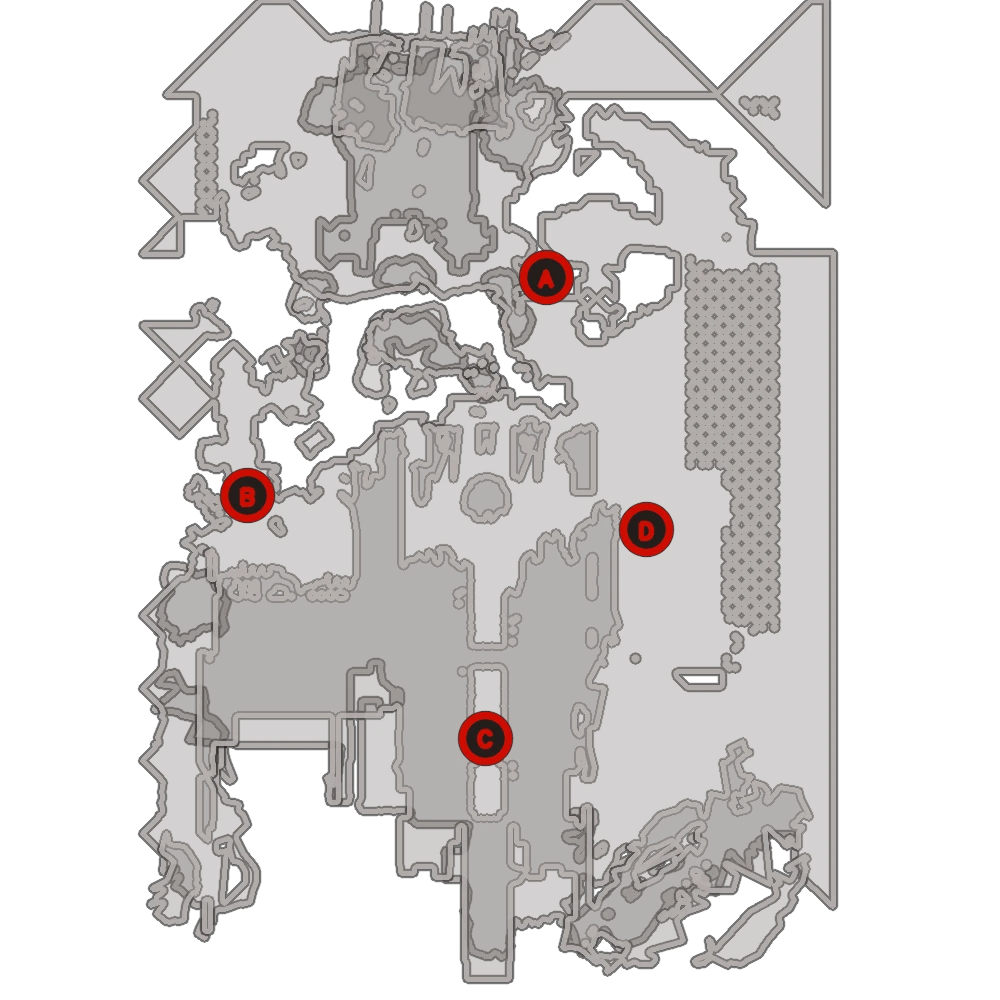
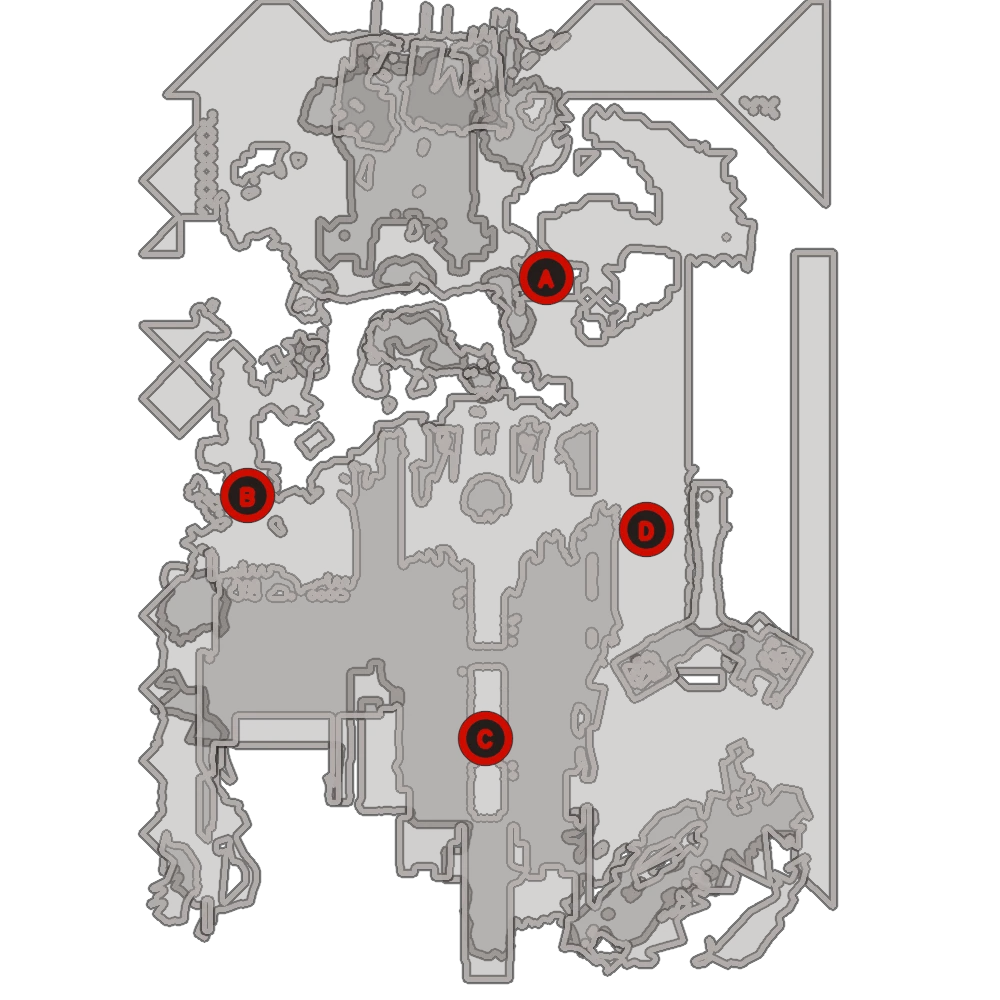
Restore Larzac spawn building minimap

Changed region(s): [[0.589, 0.248, 0.806, 0.713]]

diff --git a/analyzer/index.html b/analyzer/index.html
@@ -156,7 +156,7 @@
   </div>
 
   <script src="./html2canvas.min.js"></script>
-  <script src="./minimaps/catalog-20260822-3.js"></script>
+  <script src="./minimaps/catalog-20260822-4.js"></script>
   <script src="./parser.js?v=20260820-67"></script>
   <script src="./tier-data.js?v=20260816-2"></script>
   <script src="./spawn-alignment.js?v=20260820-1"></script>

diff --git a/analyzer/tools/build_game_minimaps.py b/analyzer/tools/build_game_minimaps.py
@@ -18,7 +18,7 @@ import cv2
 import numpy as np
 
 
-IMMUTABLE_CATALOG_FILENAME = "catalog-20260822-3.js"
+IMMUTABLE_CATALOG_FILENAME = "catalog-20260822-4.js"
 
 
 GROUP_NODES = {
@@ -323,6 +323,18 @@ PROCEDURAL_SPAWN_EXTRA_GROUPS = {
 CORPUS_SHIP_MIN_CONNECTED_AREA = 1000
 HYDRON_DEFENSE_GROUP = "hydron+helene+odin"
 HYF_DEFENSE_GROUP = "hyf"
+ICE_PLANET_DEFENSE_GROUP = "ose+paimon+larzac"
+# Larzac's right-side spawn chain belongs to a real Y-shaped building whose
+# walkable top sits around 8.5 m even though its authored spawn markers sit at
+# 4.75 m. The generic +/-3 m middle band therefore misses the floor while
+# admitting the lower framework below it. Recover only the source-mesh
+# component around this reviewed anchor, and exclude the framework volume from
+# the broad middle-band projection instead of drawing replacement geometry.
+LARZAC_Y_BUILDING_HEIGHT = 8.5
+LARZAC_Y_BUILDING_HEIGHT_TOLERANCE = 0.55
+LARZAC_Y_BUILDING_ANCHOR = ((-46.7, 8.5, -50.0),)
+LARZAC_FRAMEWORK_MIN = np.asarray([-64.0, 1.5, -65.0], dtype=np.float32)
+LARZAC_FRAMEWORK_MAX = np.asarray([-42.0, 7.8, 18.0], dtype=np.float32)
 # Hyf's ramps make its authored spawn heights nearly continuous, so generic
 # height clustering collapses its playable decks into a single -6 m slice.
 # Composite the four real floor planes and stop below the roof band near +5 m.
@@ -685,6 +697,8 @@ def render_map(
             ) * 0.5
     elif group_id == HYF_DEFENSE_GROUP:
         heights = list(HYF_PLAYABLE_FLOOR_HEIGHTS)
+    elif group_id == ICE_PLANET_DEFENSE_GROUP:
+        heights = sorted([*heights, LARZAC_Y_BUILDING_HEIGHT])
     elif group_id in CORPUS_OUTPOST_HEIGHT_BAND_INDICES:
         heights = [
             heights[index]
@@ -725,21 +739,29 @@ def render_map(
                 group_id, ()
             )
         )
+        larzac_y_building_band = (
+            group_id == ICE_PLANET_DEFENSE_GROUP
+            and abs(height - LARZAC_Y_BUILDING_HEIGHT) < 0.01
+        )
         gas_spawn_02_side_height = (
             gas_spawn_02_side_heights[band_index]
             if gas_spawn_02_side_heights is not None
             else None
         )
         height_tolerance = (
-            CORPUS_OUTPOST_COMPONENT_ONLY_TOLERANCE
-            if component_only_band
+            LARZAC_Y_BUILDING_HEIGHT_TOLERANCE
+            if larzac_y_building_band
             else (
-                CORPUS_OUTPOST_ADDITIONAL_HEIGHT_TOLERANCE
-                if additional_height_band
+                CORPUS_OUTPOST_COMPONENT_ONLY_TOLERANCE
+                if component_only_band
                 else (
-                    HYF_ADDITIONAL_FLOOR_TOLERANCE
-                    if group_id == HYF_DEFENSE_GROUP and band_index > 0
-                    else 3.0
+                    CORPUS_OUTPOST_ADDITIONAL_HEIGHT_TOLERANCE
+                    if additional_height_band
+                    else (
+                        HYF_ADDITIONAL_FLOOR_TOLERANCE
+                        if group_id == HYF_DEFENSE_GROUP and band_index > 0
+                        else 3.0
+                    )
                 )
             )
         )
@@ -794,6 +816,16 @@ def render_map(
                     & (centroids[:, 2] >= lo[1])
                     & (centroids[:, 2] <= hi[1])
                 )
+                if (
+                    group_id == ICE_PLANET_DEFENSE_GROUP
+                    and abs(height - 4.75) < 0.01
+                ):
+                    framework = np.all(
+                        (centroids >= LARZAC_FRAMEWORK_MIN)
+                        & (centroids <= LARZAC_FRAMEWORK_MAX),
+                        axis=1,
+                    )
+                    keep &= ~framework
                 selected = tri[keep]
                 if len(selected):
                     polygons = project(selected.reshape((-1, 3))).reshape((-1, 3, 2))
@@ -917,6 +949,24 @@ def render_map(
                     & (distance_squared > 42 ** 2)
                     & (distance_squared < 92 ** 2)
                 )
+        if larzac_y_building_band:
+            # The Y-shaped building is a single real mesh component at this
+            # height. Keep only the component touched by its reviewed world
+            # anchor so adjacent roof and cliff fragments stay out of the
+            # Analyzer minimap.
+            mask = cv2.morphologyEx(
+                mask,
+                cv2.MORPH_CLOSE,
+                cv2.getStructuringElement(cv2.MORPH_ELLIPSE, (3, 3)),
+            )
+            count, labels, _, _ = cv2.connectedComponentsWithStats(
+                (mask > 0).astype(np.uint8), 8
+            )
+            retained = components_near_world_points(
+                labels, LARZAC_Y_BUILDING_ANCHOR
+            )
+            if count > 1:
+                mask[~np.isin(labels, list(retained))] = 0
         if group_id == CORPUS_SHIP_DEFENSE_GROUP and band_index == len(heights) - 1:
             for room in CORPUS_SHIP_RUNTIME_SPAWN_ROOMS:
                 floor = project(room).reshape((-1, 1, 2))
@@ -1111,6 +1161,7 @@ def render_map(
         CORPUS_SHIP_DEFENSE_GROUP: "runtime-side-rooms-20260821",
         HYDRON_DEFENSE_GROUP: "counterclockwise-20260821",
         HYF_DEFENSE_GROUP: "multi-floor-20260821",
+        ICE_PLANET_DEFENSE_GROUP: "y-building-20260822",
     }
     asset_version = asset_versions.get(group_id)
     return {
